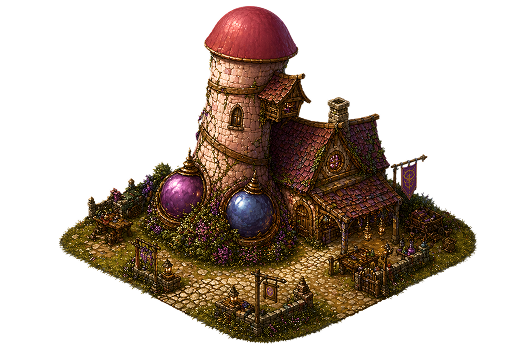
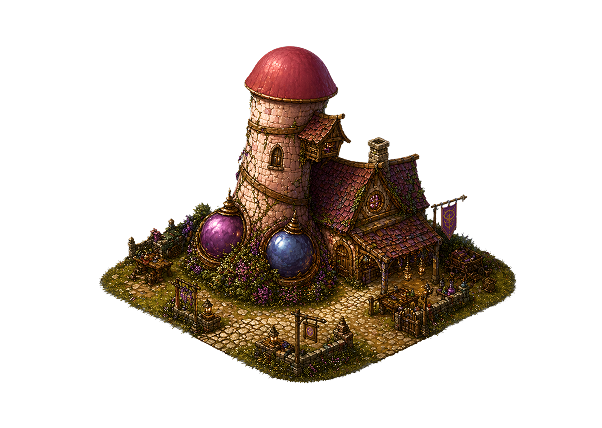
Pad hover sprites and adjust scene anchors to prevent glow clipping

diff --git a/web/static/styles.css b/web/static/styles.css
@@ -138,16 +138,16 @@ body {
 }
 
 .scene-building.is-daily-stagecoach .scene-building-image {
-    width: 300px;
-    height: 240px;
+    width: 348px;
+    height: 288px;
     object-fit: contain;
     filter: drop-shadow(0 9px 12px rgba(56, 25, 46, 0.36));
-    transition: transform 0.16s ease, filter 0.16s ease;
+    transition: filter 0.16s ease;
 }
 
 .scene-building.is-daily-stagecoach .scene-building-glow {
-    width: 300px;
-    height: 240px;
+    width: 348px;
+    height: 288px;
     object-fit: contain;
 }
 
@@ -156,7 +156,6 @@ body {
 }
 
 .scene-building.is-daily-stagecoach.is-hovered .scene-building-image {
-    transform: translateY(-2px);
     filter: drop-shadow(0 12px 16px rgba(56, 25, 46, 0.42));
 }
 

diff --git a/web/static/app.js b/web/static/app.js
@@ -101,8 +101,8 @@ const BUILDING_SCENE_POINTS = {
     masitskaya: { x: 452, y: 340 },
     sitvolny_zavod: { x: 900, y: 397 },
 };
-const MASTUR_HALL_SCENE_POINT = { x: 1226, y: 692 };
-const DAILY_STAGECOACH_SCENE_POINT = { x: 350, y: 500 };
+const MASTUR_HALL_SCENE_POINT = { x: 1186, y: 652 };
+const DAILY_STAGECOACH_SCENE_POINT = { x: 326, y: 476 };
 const DAILY_STAGECOACH_ASSET = "/static/assets/daily/stagecoach.png";
 const DAILY_STAGECOACH_GLOW_ASSET = "/static/assets/daily/stagecoach_glow.png";
 
